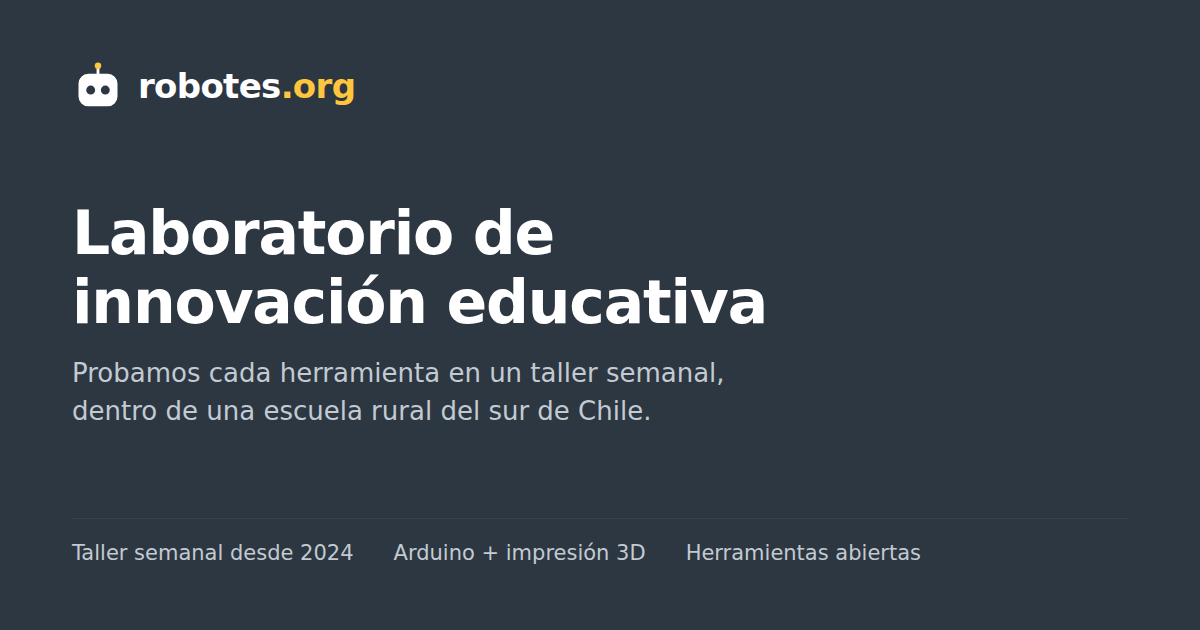
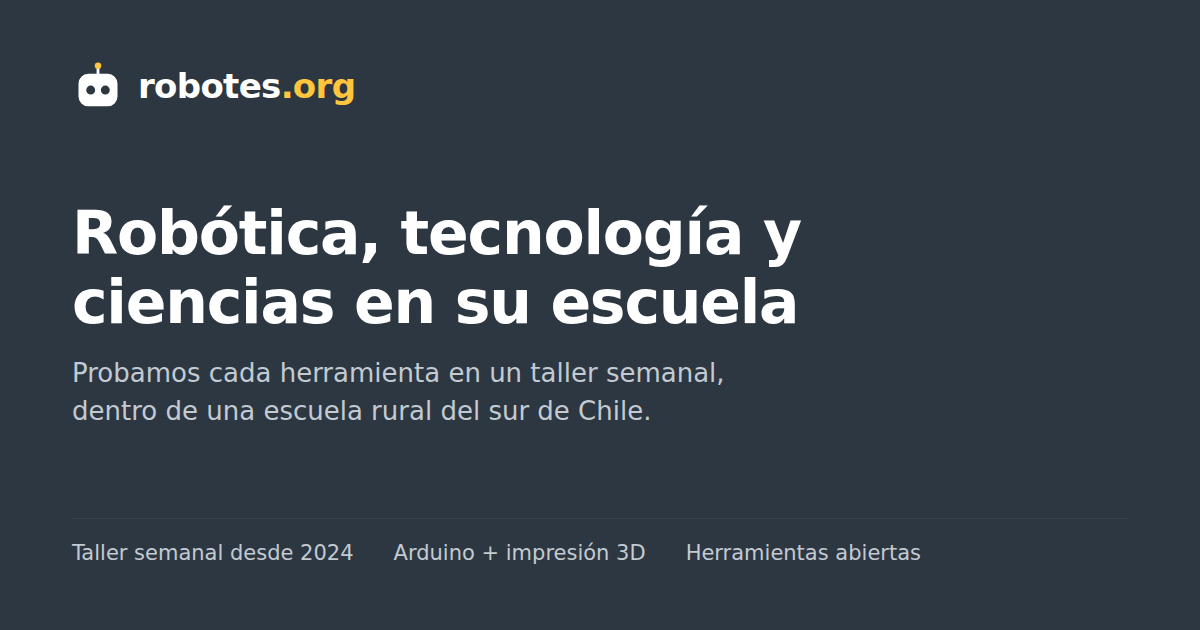
Cambia el titular de la portada por la enumeracion de disciplinas

Changed region(s): [[0.0617, 0.3317, 0.6783, 0.5127]]

diff --git a/index.html b/index.html
@@ -4,7 +4,7 @@
 <meta charset="UTF-8">
 <meta name="viewport" content="width=device-width, initial-scale=1">
 <title>robotes.org — Laboratorio de innovación educativa</title>
-<meta name="description" content="Laboratorio de innovación educativa. Diseñamos y probamos herramientas para enseñar robótica, programación y fabricación digital en un taller semanal, dentro de una escuela rural del sur de Chile.">
+<meta name="description" content="Robótica, tecnología y ciencias en su escuela. Laboratorio de innovación educativa: probamos cada herramienta en un taller semanal, dentro de una escuela rural del sur de Chile.">
 <meta name="theme-color" content="#2c3742">
 <link rel="icon" href="assets/logo/favicon.svg" type="image/svg+xml">
 <link rel="stylesheet" href="assets/tokens.css">
@@ -12,7 +12,7 @@
 <meta property="og:type" content="website">
 <meta property="og:locale" content="es_CL">
 <meta property="og:site_name" content="robotes.org">
-<meta property="og:title" content="Laboratorio de innovación educativa">
+<meta property="og:title" content="Robótica, tecnología y ciencias en su escuela">
 <meta property="og:description" content="Diseñamos y probamos herramientas para enseñar robótica y programación. Todo se prueba primero en un taller semanal, en una escuela rural del sur de Chile.">
 <meta property="og:image" content="assets/og.png">
 <meta property="og:url" content="https://robotes.org/">
@@ -197,7 +197,7 @@
   @media (max-width: 860px) { .nav { display: none; } }
 
   .hero { padding: var(--rb-space-6) 0 var(--rb-space-8); }
-  .hero h1 { font-size: clamp(2rem, 5.2vw, 3.052rem); max-width: 19ch; margin-bottom: var(--rb-space-3); }
+  .hero h1 { font-size: clamp(2rem, 5.2vw, 3.052rem); max-width: 22ch; margin-bottom: var(--rb-space-3); }
   .hero .lede { color: var(--rb-bruma); margin-bottom: var(--rb-space-4); }
 
   /* ── Buttons ────────────────────────────────────────────────────────── */
@@ -421,12 +421,11 @@
 
     <div class="hero" id="main">
       <p class="eyebrow">Laboratorio de innovación educativa</p>
-      <h1>Desarrollamos tecnología educativa donde es más difícil que funcione.</h1>
+      <h1>Robótica, tecnología y ciencias en su escuela.</h1>
       <p class="lede">
-        robotes.org es una empresa chilena que diseña y prueba herramientas para enseñar
-        robótica, programación y fabricación digital. Todo lo que hacemos se prueba primero
-        en un taller semanal, dentro de una escuela rural del sur de Chile. Lo que no
-        resiste esa sala de clases no sale de aquí.
+        robotes.org es una empresa chilena de tecnología educativa. Diseñamos y probamos
+        cada herramienta en un taller semanal, dentro de una escuela rural del sur de
+        Chile. Lo que no resiste esa sala de clases no llega a la suya.
       </p>
       <div class="actions">
         <a class="btn btn-primary" href="#method">Cómo trabajamos</a>

diff --git a/assets/og-card.html b/assets/og-card.html
@@ -59,7 +59,7 @@
   </div>
 
   <div>
-    <h1>Laboratorio de innovación educativa</h1>
+    <h1>Robótica, tecnología y ciencias en su escuela</h1>
     <p class="lede">Probamos cada herramienta en un taller semanal, dentro de una escuela rural del sur de Chile.</p>
   </div>
 
